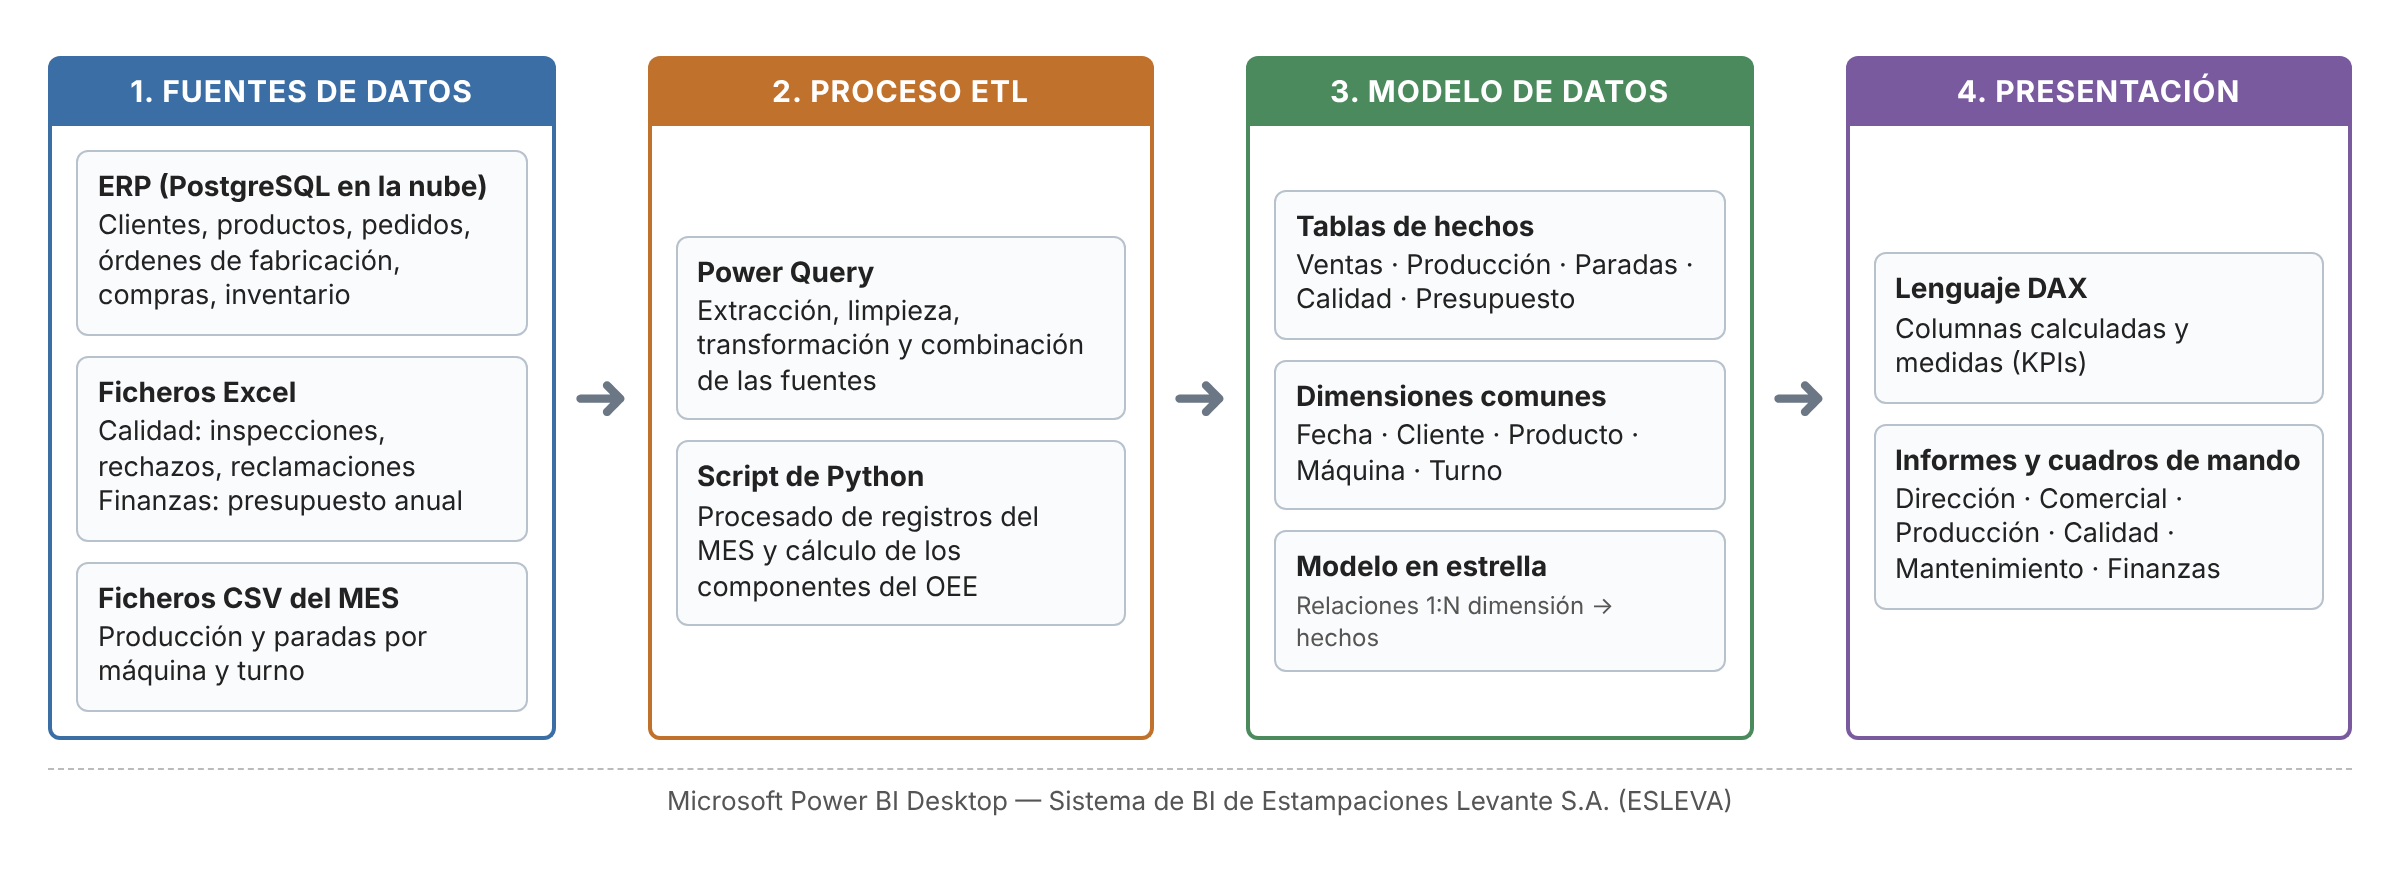
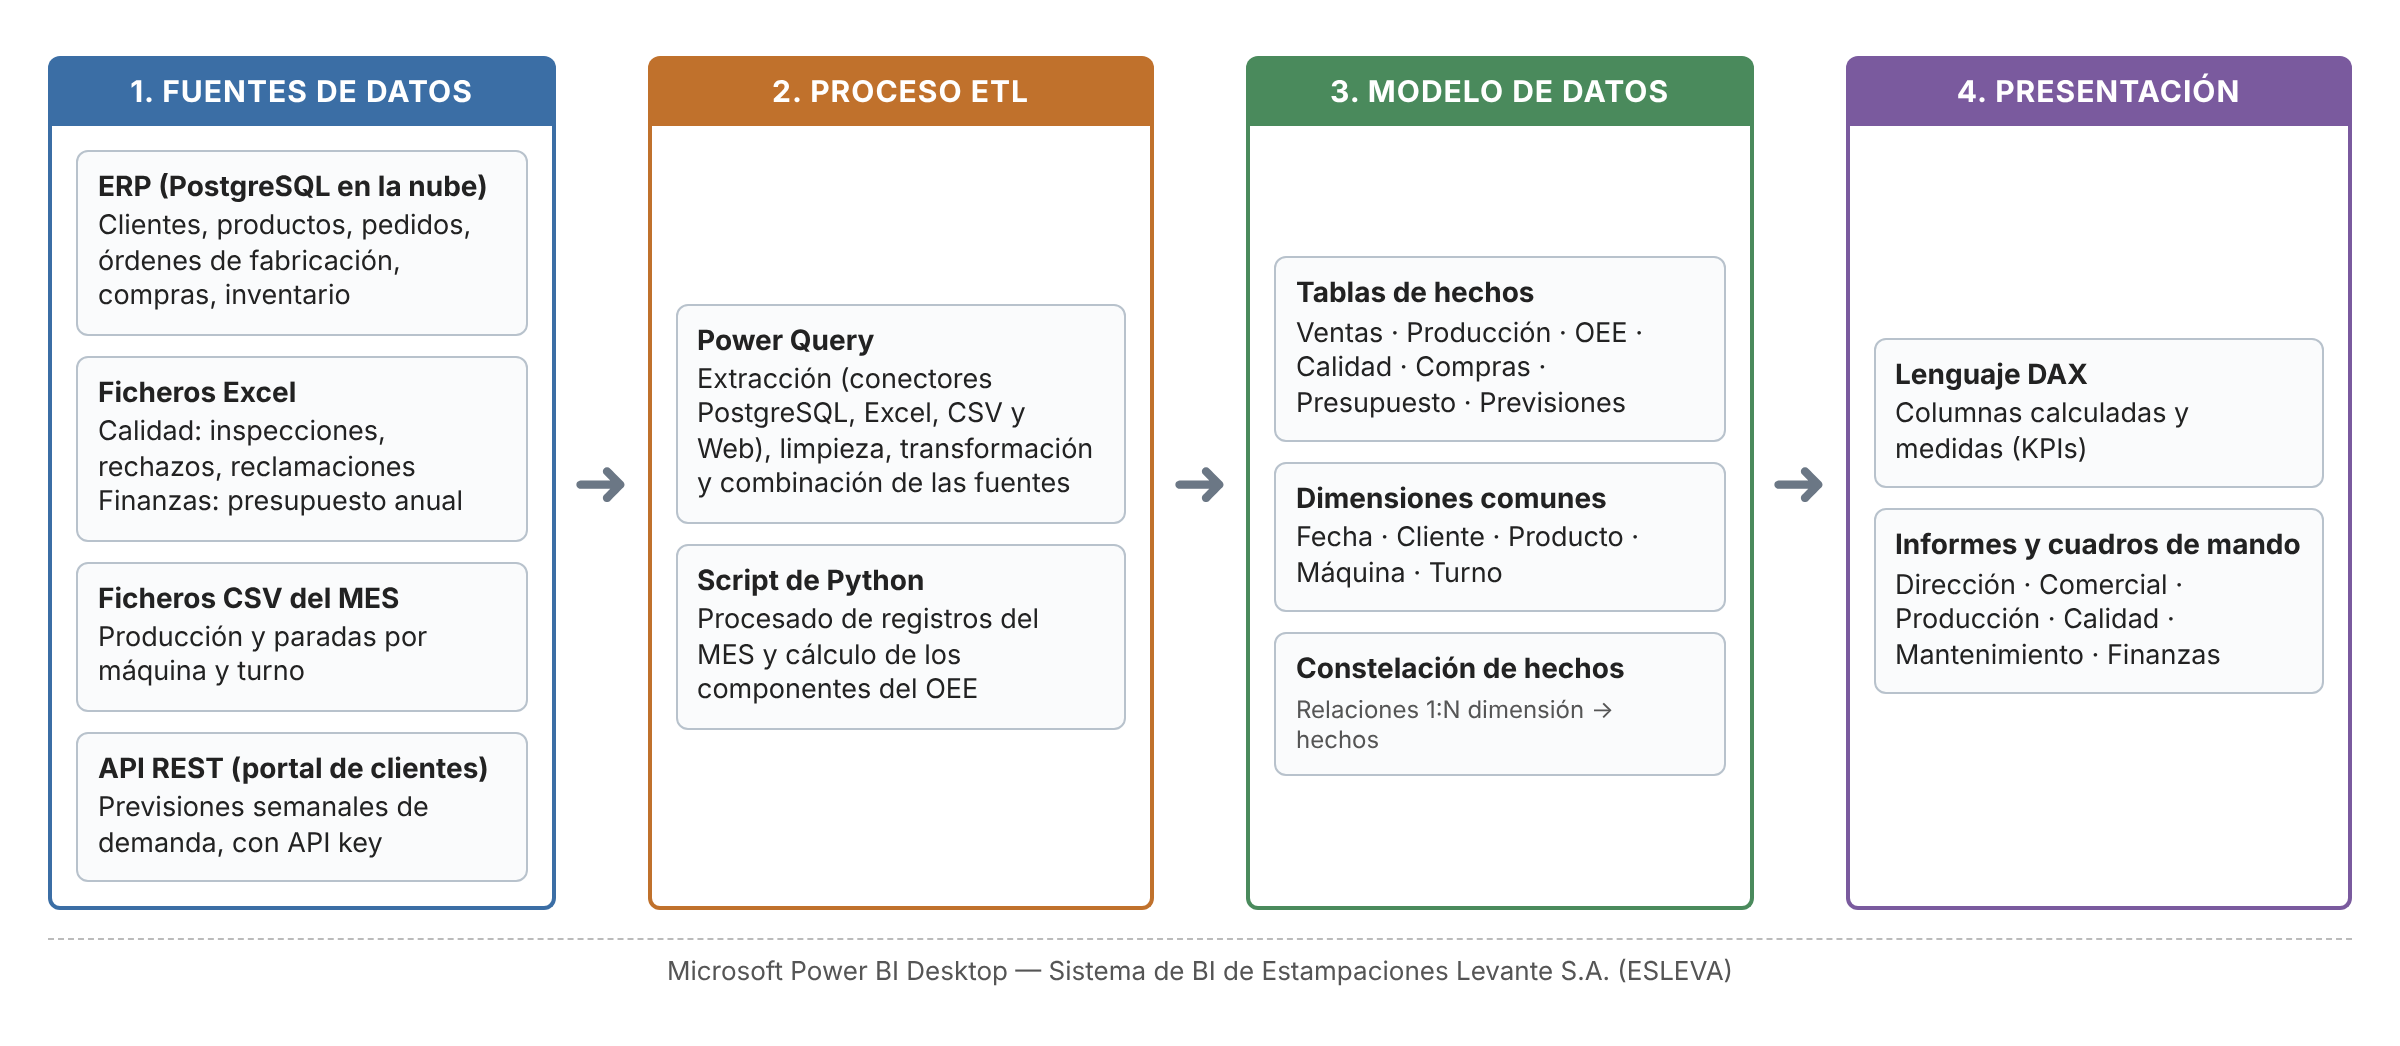
Documenta el acceso a la API y actualiza las figuras con la nueva fuente
- README: URL, cabecera y API key del portal de previsiones y conexión desde Power BI
- Figura 1: fuente API REST, conector Web y tablas de hechos actualizadas
- Figura 2: nueva tabla fact_previsiones; renombrada a 3.8 por el nuevo apartado de la memoria

Claude-Session: https://claude.ai/code/session_01PuQ6DyEn41UgMdCQ9WjogF

diff --git a/README.md b/README.md
@@ -49,6 +49,18 @@ En Power BI Desktop: **Obtener datos > Base de datos PostgreSQL**, servidor `aws
 
 Este usuario solo puede leer las tablas, no modificarlas. El plan gratuito de Supabase pausa los proyectos tras un periodo de inactividad; si la conexión falla por ese motivo, puede solicitarse su reactivación o recrear la base de datos en local.
 
+### Acceso a la API del portal de clientes
+
+La tabla `previsiones_cliente` (portal de previsiones de los clientes) se consulta además mediante la API REST de Supabase, autenticada con una API key pública de solo lectura que únicamente da acceso a esa tabla:
+
+| Parámetro | Valor |
+|---|---|
+| URL | `https://fcpxbuhuzvqyjrlwejgv.supabase.co/rest/v1/previsiones_cliente?select=*` |
+| Cabecera HTTP | `apikey` |
+| API key | `sb_publishable__lnwpTKY7h5Xeg6micoG_w_cO-Aaig4` |
+
+En Power BI Desktop: **Obtener datos > Web > Avanzado**, pega la URL y, en **Parámetros de encabezado de solicitud HTTP**, añade `apikey` con la clave anterior. En la ventana de credenciales, elige **Anónimo**. La respuesta es una lista JSON que se convierte en tabla con **A la tabla** y se expande con el botón de la cabecera de columna.
+
 Si no fuera posible acceder a la base de datos en la nube, puede recrearse en cualquier instancia de PostgreSQL siguiendo la guía paso a paso [Cómo recrear la base de datos](docs/recrear_base_de_datos.md).
 
 ## Regenerar los datos
